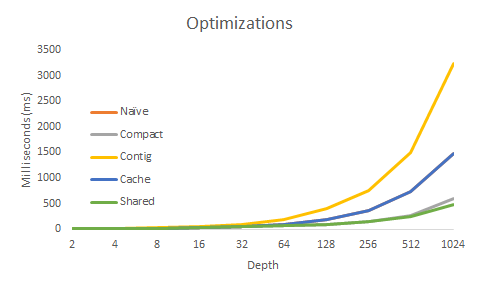
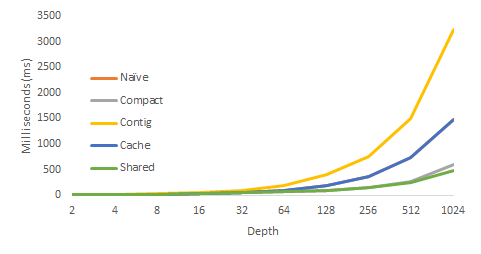
image resize

diff --git a/README.md b/README.md
@@ -66,8 +66,6 @@ Antialiasing is a simple feature that provides great image improvement without a
 
 ### Optimizations
 
-![](img/perf.png)
-
 * Ray Termination
 
 On the CPU, path tracing is a recursive algorithm. However, this is not possible on the GPU, so instead path tracing must be iterative. To terminate rays, the array of rays is stream compacted and only active rays are analyzed in the next iteration. This optimization provides benefits for large depths and for open scenes. For closed scenes, rays are only terminated when they hit the light, which is less common than escaping the scene, so less rays are terminated for each depth (see graph below). The open scene is darker because more rays escape before hitting the light whereas in the open scene, the rays are trapped and bounce between walls until they hit the light. 
@@ -90,6 +88,8 @@ This optimization sorts the pixels based on the materials the current ray inters
 * Cache first bounce intersection
 
 The naive and cached graphs are overlayed because caching the first bounce does nothing to performance. In addition, when antialiasing is used, the first ray is not the same, so caching does not accelerate later iterations. 
+
+![](img/perf.png = 250x)
 
 ### Controls
 
